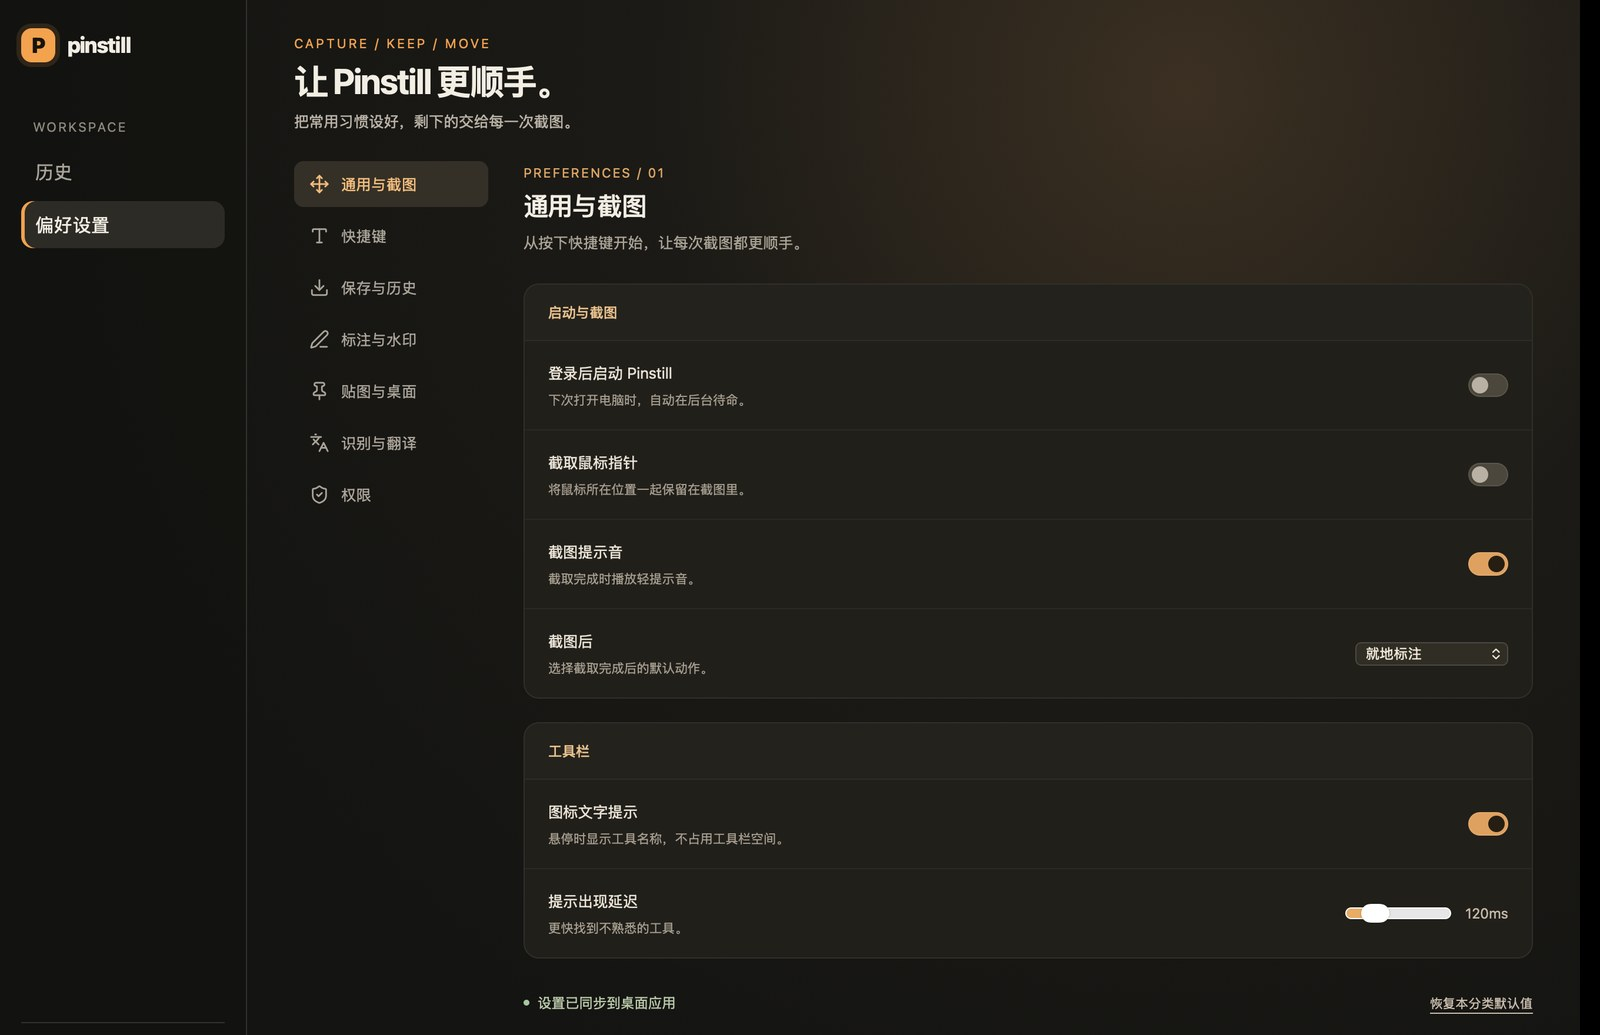
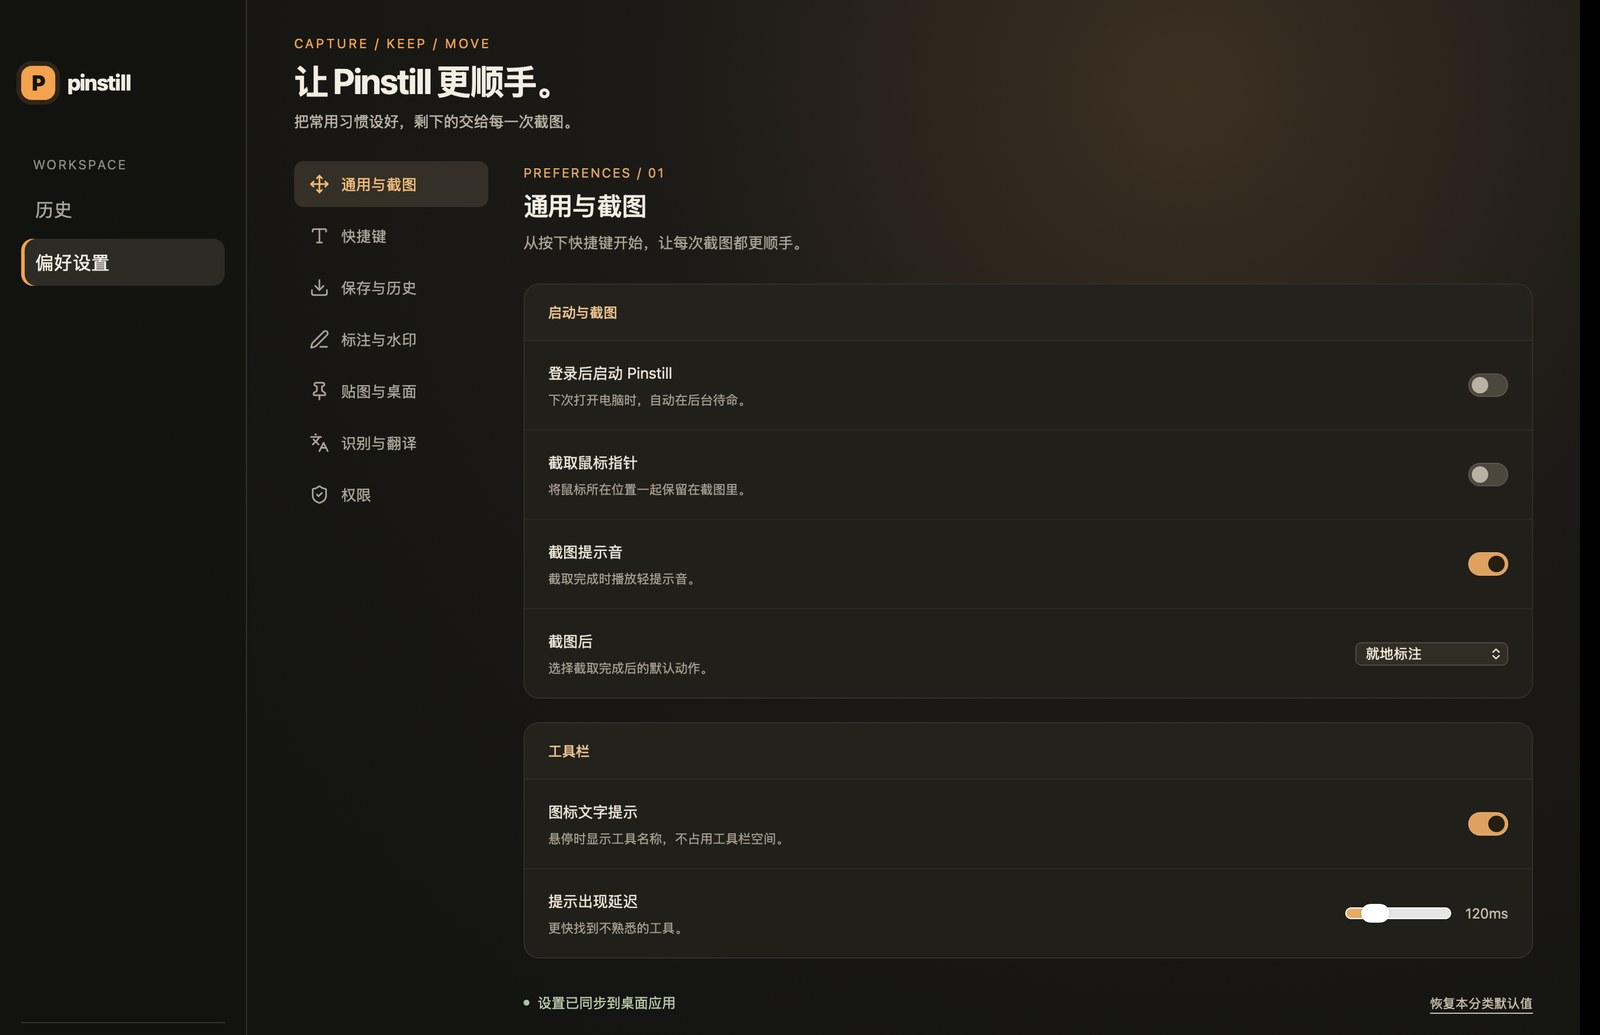
fix: clear the macOS traffic lights; slim the pin close button
- the hidden-inset title bar floats the window controls over the page, and
  the history rail's brand sat right underneath them. On macOS the page now
  gets .is-mac and the rail starts 56px lower so the brand clears the
  traffic lights (Windows and the browser preview keep their old spacing).
- the pin close button stays, but as an 18px translucent glass button with
  a 10px glyph (was 24px with a heavy focus ring); the scrolling result
  preview's header close is 22px now too. Both read as quiet utilities
  instead of primary controls.
- pinui still closes through the button; full e2e passes; README
  screenshots regenerated for the new main-window spacing.

Changed region(s): [[0.0, 0.1546, 0.1562, 0.2783], [0.0, 0.0, 0.0938, 0.1237]]

diff --git a/frontend/pin.html b/frontend/pin.html
@@ -51,31 +51,33 @@
     box-shadow: inset 0 0 0 1px rgba(243, 162, 78, 0.9);
   }
 
+  /* Small, quiet close affordance: an 18px glass button that fades in on
+     hover/focus (Esc and the right-click menu still work too). */
   .pin-close {
     --app-region: no-drag;
     position: absolute;
-    top: 6px;
-    right: 6px;
-    width: 24px;
-    height: 24px;
+    top: 5px;
+    right: 5px;
+    width: 18px;
+    height: 18px;
     padding: 0;
     display: grid;
     place-items: center;
-    border: 1px solid rgba(26, 25, 21, 0.2);
-    border-radius: 7px;
-    background: rgba(250, 247, 240, 0.86);
-    color: #36332c;
+    border: 0;
+    border-radius: 5px;
+    background: rgba(24, 23, 20, 0.55);
+    color: rgba(246, 242, 232, 0.92);
     cursor: pointer;
     opacity: 0;
     transition: opacity 0.12s ease, background 0.12s ease;
-    box-shadow: 0 2px 8px rgba(0, 0, 0, 0.22);
+    box-shadow: 0 1px 4px rgba(0, 0, 0, 0.22);
     z-index: 1;
   }
-  .pin-close svg { width: 14px; height: 14px; }
+  .pin-close svg { width: 10px; height: 10px; }
   .pin-window:hover .pin-close,
   .pin-close:focus-visible { opacity: 1; }
-  .pin-close:hover { background: #fffaf0; }
-  .pin-close:focus-visible { outline: 2px solid var(--amber); outline-offset: 2px; }
+  .pin-close:hover { background: rgba(24, 23, 20, 0.82); }
+  .pin-close:focus-visible { outline: 1px solid var(--amber); outline-offset: 1px; }
 
   /* Bottom-right resize grip: page-driven, keeps the aspect ratio. */
   .pin-resize {
@@ -196,7 +198,7 @@
   <div class="pin-window" id="pinWindow">
     <img id="pinImage" alt="固定到桌面的截图" />
     <button type="button" class="pin-close" id="pinClose" aria-label="关闭贴图" title="关闭贴图（Esc）">
-      <svg viewBox="0 0 24 24" fill="none" stroke="currentColor" stroke-width="2" stroke-linecap="round" aria-hidden="true"><path d="M18 6 6 18"/><path d="m6 6 12 12"/></svg>
+      <svg viewBox="0 0 24 24" fill="none" stroke="currentColor" stroke-width="2.4" stroke-linecap="round" aria-hidden="true"><path d="M18 6 6 18"/><path d="m6 6 12 12"/></svg>
     </button>
     <div class="pin-resize" id="pinResize" role="slider" aria-label="调整贴图大小" tabindex="-1">
       <svg viewBox="0 0 24 24" fill="none" stroke="currentColor" stroke-width="2" stroke-linecap="round" aria-hidden="true"><path d="M21 15 15 21"/><path d="M21 8 8 21"/></svg>

diff --git a/frontend/src/pin.ts b/frontend/src/pin.ts
@@ -4,7 +4,7 @@
 // Page-side behavior from plan R2.2:
 // - the whole image is the window's drag region (CSS `--app-region: drag`,
 //   see pin.html); controls are no-drag;
-// - hover close button, custom context menu (copy / save / close / opacity
+// - custom context menu (copy / save / close / opacity
 //   ±10% / original size), double-click copies, wheel scales the window
 //   (⌘/Ctrl + wheel changes opacity), the bottom-right grip resizes the
 //   window keeping the aspect ratio, Esc closes;
@@ -51,8 +51,8 @@ const el = <T extends HTMLElement = HTMLElement>(id: string): T => {
 
 const windowEl = el("pinWindow");
 const image = el<HTMLImageElement>("pinImage");
-const errorEl = el("pinError");
 const closeButton = el<HTMLButtonElement>("pinClose");
+const errorEl = el("pinError");
 const resizeHandle = el("pinResize");
 const menu = el("pinMenu");
 const menuState = el("pinMenuState");
@@ -407,6 +407,8 @@ menu.addEventListener("click", (event) => {
   }
 });
 
+closeButton.addEventListener("click", () => void closeWindow());
+
 // ---------------------------------------------------------------------------
 // Wheel: scale the window, ⌘/Ctrl + wheel changes opacity
 // ---------------------------------------------------------------------------
@@ -535,7 +537,6 @@ function applyPin(init: PinInit): void {
   image.src = init.url;
 }
 
-closeButton.addEventListener("click", () => void closeWindow());
 
 window.addEventListener("dblclick", (event) => {
   if (closing) return;

diff --git a/frontend/index.html b/frontend/index.html
@@ -254,6 +254,10 @@ select:focus-visible,input[type=text]:focus-visible,input[type=range]:focus-visi
 .toast[data-kind=success]{border-left:3px solid #a8c7a0}
 .toast[data-kind=info]{border-left:3px solid #f3a24e}
 
+/* macOS inset title bar: the traffic lights float over the top-left of the
+   page, so the rail starts below them instead of under the brand. */
+.is-mac .rail{padding-top:56px}
+
 /* ---------------------------------------------------------------- narrow windows */
 @media(max-width:1250px){
   .main{padding:26px 28px 40px}

diff --git a/frontend/src/main.ts b/frontend/src/main.ts
@@ -63,6 +63,12 @@ const el = <T extends HTMLElement = HTMLElement>(id: string): T => {
   return element as T;
 };
 
+// The macOS title bar is hidden-inset, so the traffic lights float over the
+// page: leave room for them at the top of the rail (see .is-mac in index.html).
+if (/mac/i.test(navigator.platform) || /mac os x/i.test(navigator.userAgent)) {
+  document.documentElement.classList.add("is-mac");
+}
+
 type View = "history" | "settings";
 type ShortcutKey = (typeof SHORTCUT_KEYS)[number];
 

diff --git a/frontend/result.html b/frontend/result.html
@@ -80,14 +80,14 @@
   }
   .result-close {
     --app-region: no-drag;
-    width: 26px;
-    height: 26px;
+    width: 22px;
+    height: 22px;
     padding: 0;
     border: 1px solid transparent;
     border-radius: 7px;
     background: transparent;
     color: #b8b1a5;
-    font-size: 16px;
+    font-size: 14px;
     line-height: 1;
     display: grid;
     place-items: center;

diff --git a/internal/app/selftest.go b/internal/app/selftest.go
@@ -943,7 +943,7 @@ func (a *App) selftestPinUI() {
 	}
 	a.mu.Unlock()
 	fmt.Printf("SELFTEST pinui: wheel bounds=%+v scaled=%v\n", afterWheel, afterWheel.Width > after.Width)
-	// close through the page's close button: state must disappear
+	// close through the hover close button: state must disappear
 	fmt.Printf("SELFTEST pinui: close=%v\n", eval(`(() => { const b = document.getElementById('pinClose'); if (!b) return 'missing'; b.click(); return 'clicked'; })()`))
 	time.Sleep(900 * time.Millisecond)
 	a.mu.Lock()
